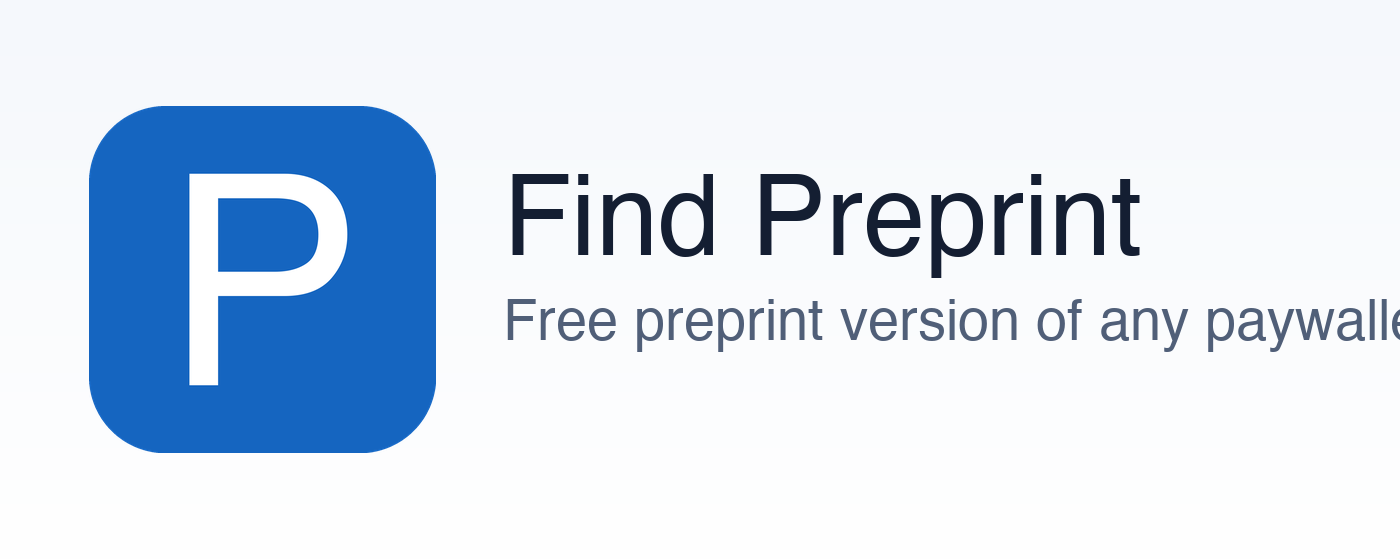
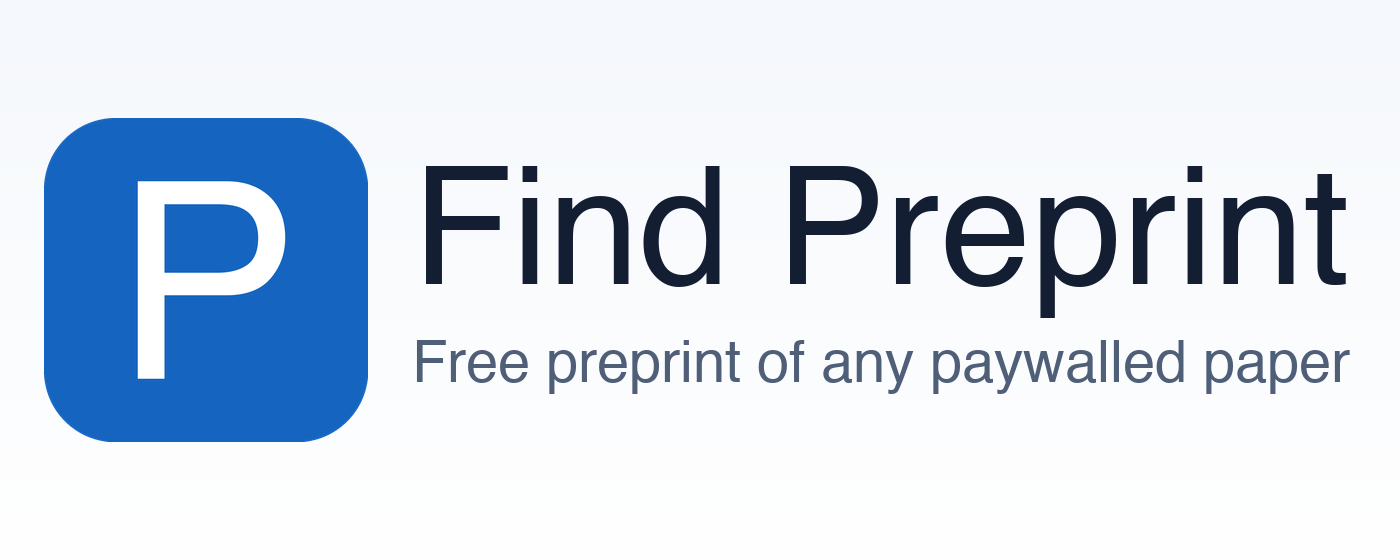
Fix cropped promo tile text with auto-fit font sizing
Previous tiles cut off 'Find Preprint' and the subtitle in the small
440x280 tile. Replaced fixed font sizes with a fit_font helper that
shrinks until both lines fit the available text area, then centers
the title+subtitle block vertically. Same shortened tagline ('Free
preprint of any paywalled paper') used in both sizes.

Changed region(s): [[0.0921, 0.1821, 1.0, 0.8196], [0.0307, 0.2125, 0.0921, 0.7893]]

diff --git a/scripts/make_store_assets.py b/scripts/make_store_assets.py
@@ -143,47 +143,75 @@ def make_store_icon():
     print(f"wrote {p.relative_to(ROOT)}")
 
 
+def fit_font(draw, text, max_w, max_h, start_size, bold=False):
+    """Return the largest font size at which the text fits the box."""
+    for fs in range(start_size, 8, -1):
+        f = find_font(fs, bold=bold)
+        bbox = draw.textbbox((0, 0), text, font=f)
+        if (bbox[2] - bbox[0]) <= max_w and (bbox[3] - bbox[1]) <= max_h:
+            return f, bbox
+    f = find_font(10, bold=bold)
+    return f, draw.textbbox((0, 0), text, font=f)
+
+
 def make_promo(width, height, name):
     img = Image.new("RGB", (width, height), (245, 248, 252))
-    # Gentle gradient.
+    # Gentle gradient (top blue-ish, bottom white).
     grad = Image.new("RGB", (1, height), 0)
     for y in range(height):
         t = y / max(height - 1, 1)
-        # very subtle blue tint top to white bottom
         r = int(245 + (255 - 245) * t)
         g = int(248 + (255 - 248) * t)
         b = int(252 + (255 - 252) * t)
         grad.putpixel((0, y), (r, g, b))
     img.paste(grad.resize((width, height)))
 
-    # Icon on the left (same clean P used in the store icon).
-    icon_size = int(height * 0.62)
+    d = ImageDraw.Draw(img)
+
+    # Icon on the left, sized as a fraction of the shortest axis so the
+    # layout works for both promo sizes.
+    icon_size = int(height * 0.58)
     icon = draw_p_icon(icon_size).convert("RGBA")
-    icon_x = int(height * 0.16)
+    margin = int(min(width, height) * 0.08)
+    icon_x = margin
     icon_y = (height - icon_size) // 2
     img.paste(icon, (icon_x, icon_y), icon)
 
-    # Text on the right.
-    d = ImageDraw.Draw(img)
-    title_size = int(height * 0.20)
-    sub_size = int(height * 0.10)
-    title_font = find_font(title_size, bold=True)
-    sub_font = find_font(sub_size)
+    # Text area: from end of icon + gap, to right margin.
+    text_x = icon_x + icon_size + int(min(width, height) * 0.08)
+    text_max_w = width - text_x - margin
+    title = "Find Preprint"
+    subtitle = "Free preprint of any paywalled paper"
 
-    text_x = icon_x + icon_size + int(height * 0.12)
-    title_y = int(height * 0.30)
-    d.text((text_x, title_y), "Find Preprint", font=title_font, fill=(20, 30, 50))
-    sub_y = title_y + int(title_size * 1.15)
-    d.text(
-        (text_x, sub_y),
-        "Free preprint version of any paywalled paper",
-        font=sub_font,
-        fill=(80, 95, 120),
+    # Two-line layout: title takes ~55% of vertical text space.
+    title_max_h = int(height * 0.32)
+    sub_max_h = int(height * 0.18)
+
+    title_font, title_bbox = fit_font(
+        d, title, text_max_w, title_max_h, start_size=int(height * 0.30), bold=True
     )
+    sub_font, sub_bbox = fit_font(
+        d, subtitle, text_max_w, sub_max_h, start_size=int(height * 0.14), bold=False
+    )
+
+    title_w = title_bbox[2] - title_bbox[0]
+    title_h = title_bbox[3] - title_bbox[1]
+    sub_w = sub_bbox[2] - sub_bbox[0]
+    sub_h = sub_bbox[3] - sub_bbox[1]
+
+    gap = int(height * 0.04)
+    block_h = title_h + gap + sub_h
+    block_top = (height - block_h) // 2
+
+    title_y = block_top - title_bbox[1]
+    sub_y = block_top + title_h + gap - sub_bbox[1]
+
+    d.text((text_x - title_bbox[0], title_y), title, font=title_font, fill=(20, 30, 50))
+    d.text((text_x - sub_bbox[0], sub_y), subtitle, font=sub_font, fill=(80, 95, 120))
 
     p = OUT / name
     img.save(p, "PNG", optimize=True)
-    print(f"wrote {p.relative_to(ROOT)} ({width}x{height})")
+    print(f"wrote {p.relative_to(ROOT)} ({width}x{height})  title={title_font.size}px sub={sub_font.size}px")
 
 
 if __name__ == "__main__":
